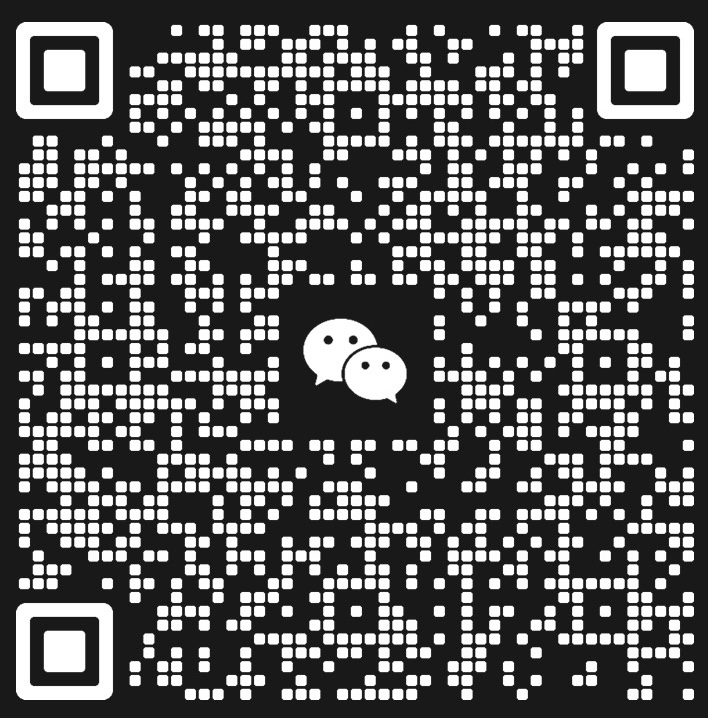
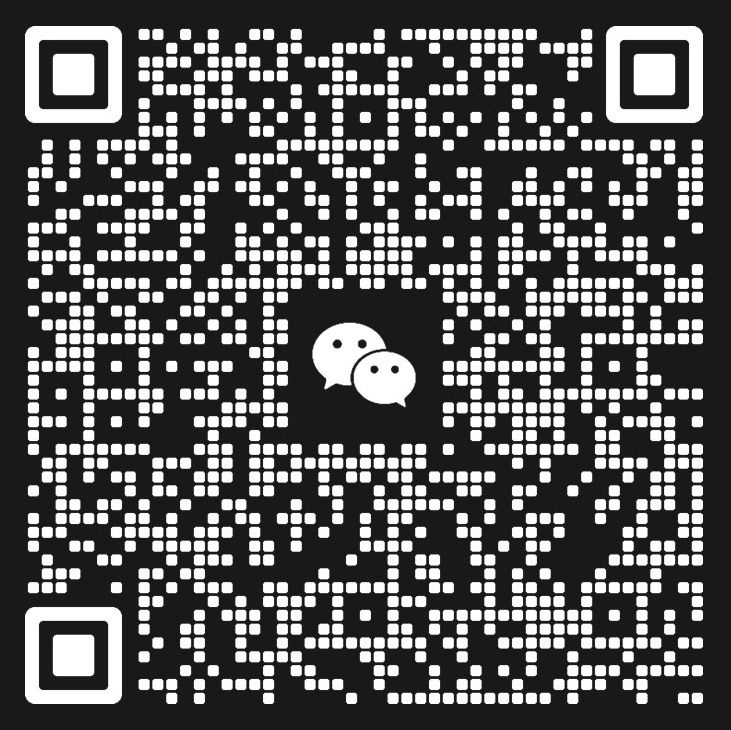
增加中英文快捷切换按钮，修复移动端BuBu

diff --git a/components/focus-lab/FocusLabApp.tsx b/components/focus-lab/FocusLabApp.tsx
@@ -3,6 +3,7 @@
 import { createClient } from '@/lib/supabase'
 import { cn } from '@/lib/utils'
 import { createPortal } from 'react-dom'
+import { usePathname, useRouter } from 'next/navigation'
 
 import Image from 'next/image'
 import { motion, AnimatePresence } from 'framer-motion'
@@ -77,6 +78,7 @@ import {
   StarIcon,
   LogoutIcon,
   HelpIcon,
+  TranslateIcon,
 } from '@/components/focus-lab/icons'
 import {
   GreetingInfo,
@@ -180,6 +182,9 @@ export const FocusLabApp = ({ onExitAction }: { onExitAction?: () => void }) => 
   const { themeColor, setThemeColor, uiStyle, setUiStyle } = useThemeColor()
   const { user } = useAuth()
   const { t, language: lang } = useTranslation()
+  const pathname = usePathname()
+  const router = useRouter()
+
   const { settings, updateSettings, isLoaded: isSettingsLoaded } = useFocusSettingsContext()
   const displayName = user
     ? user.user_metadata?.full_name ||
@@ -920,6 +925,16 @@ export const FocusLabApp = ({ onExitAction }: { onExitAction?: () => void }) => 
                     label={lang === 'zh' ? '使用引导' : 'Tour'}
                     onClick={startTour}
                   />
+                  <FocusSidebarAction
+                    id="sidebar-language"
+                    icon={<TranslateIcon className="h-6 w-6" />}
+                    label={lang === 'zh' ? 'English' : '切换中文'}
+                    onClick={() => {
+                      const newLang = lang === 'en' ? 'zh' : 'en'
+                      const newPath = pathname.replace(`/${lang}`, `/${newLang}`)
+                      router.push(newPath)
+                    }}
+                  />
                   {lang === 'zh' && (
                     <FocusSidebarAction
                       icon={<span className="icon-[solar--chat-round-dots-bold-duotone] h-6 w-6" />}
@@ -1019,12 +1034,26 @@ export const FocusLabApp = ({ onExitAction }: { onExitAction?: () => void }) => 
                   )}
                 >
                   <span className="text-lg font-bold dark:text-white">Focus Lab</span>
-                  <button
-                    onClick={onExitAction}
-                    className="rounded-lg bg-gray-100 px-3 py-1.5 text-xs font-medium text-gray-600"
-                  >
-                    Exit
-                  </button>
+                  <div className="flex items-center gap-2">
+                    <button
+                      onClick={() => {
+                        const newLang = lang === 'en' ? 'zh' : 'en'
+                        // Replace the first occurrence of the current lang in the path
+                        // This assumes the path starts with /en or /zh
+                        const newPath = pathname.replace(`/${lang}`, `/${newLang}`)
+                        router.push(newPath)
+                      }}
+                      className="rounded-lg bg-gray-100 px-3 py-1.5 text-xs font-medium text-gray-600 transition-colors hover:bg-gray-200 dark:bg-gray-800 dark:text-gray-300 dark:hover:bg-gray-700"
+                    >
+                      {lang === 'en' ? '中文' : 'En'}
+                    </button>
+                    <button
+                      onClick={onExitAction}
+                      className="rounded-lg bg-gray-100 px-3 py-1.5 text-xs font-medium text-gray-600 transition-colors hover:bg-gray-200 dark:bg-gray-800 dark:text-gray-300 dark:hover:bg-gray-700"
+                    >
+                      {lang === 'zh' ? '退出' : 'Exit'}
+                    </button>
+                  </div>
                 </div>
               )}
 

diff --git a/components/focus-lab/modals/FocusLabSettingsModal.tsx b/components/focus-lab/modals/FocusLabSettingsModal.tsx
@@ -4,6 +4,7 @@ import { useState, useRef, useEffect } from 'react'
 import { motion, AnimatePresence } from 'framer-motion'
 import { cn } from '@/lib/utils'
 import { useTranslation } from '@/context/LanguageContext'
+import { usePathname, useRouter } from 'next/navigation'
 import { useTheme } from 'next-themes'
 import { useThemeColor, ThemeColor, UIStyle } from '@/context/ThemeColorContext'
 import { GRID_PRESETS } from '@/components/focus-lab/constants'
@@ -44,6 +45,8 @@ export const FocusLabSettingsModal = ({
   onResetLayout,
 }: FocusLabSettingsModalProps) => {
   const { t, language: lang } = useTranslation()
+  const pathname = usePathname()
+  const router = useRouter()
   const { theme, setTheme } = useTheme()
   const { themeColor, setThemeColor, uiStyle, setUiStyle } = useThemeColor()
 
@@ -110,6 +113,24 @@ export const FocusLabSettingsModal = ({
               </h2>
 
               <div className="space-y-4">
+                {/* Language Switcher */}
+                <div className="flex items-center justify-between rounded-lg bg-gray-50 p-3 dark:bg-gray-800">
+                  <span className="font-medium dark:text-gray-200">
+                    {lang === 'zh' ? 'Language' : '语言'}
+                  </span>
+                  <button
+                    onClick={() => {
+                      const newLang = lang === 'en' ? 'zh' : 'en'
+                      // Replace the first occurrence of the current lang in the path
+                      const newPath = pathname.replace(`/${lang}`, `/${newLang}`)
+                      router.push(newPath)
+                    }}
+                    className={`rounded-md px-3 py-1.5 text-sm transition-colors ${getToggleButtonClass(false).replace('bg-gray-200 text-gray-500 dark:bg-gray-700 dark:text-gray-400', 'bg-gray-200 text-gray-700 dark:bg-gray-700 dark:text-gray-300')}`}
+                  >
+                    {lang === 'zh' ? '中文' : 'English'}
+                  </button>
+                </div>
+
                 {/* Dark Mode */}
                 <div
                   className={`flex items-center justify-between rounded-lg bg-gray-50 p-3 dark:bg-gray-800 ${isLightModeOnlyStyle ? 'opacity-50' : ''}`}

diff --git a/components/focus-lab/icons.tsx b/components/focus-lab/icons.tsx
@@ -88,6 +88,26 @@ export const HelpIcon = ({ className }: { className?: string }) => (
   <span className={`icon-[solar--question-circle-bold-duotone] ${className}`} />
 )
 
+export const TranslateIcon = ({ className }: { className?: string }) => (
+  <svg
+    xmlns="http://www.w3.org/2000/svg"
+    viewBox="0 0 24 24"
+    fill="none"
+    stroke="currentColor"
+    strokeWidth="2"
+    strokeLinecap="round"
+    strokeLinejoin="round"
+    className={className}
+  >
+    <path d="m5 8 6 6" />
+    <path d="m4 14 6-6 2-3" />
+    <path d="M2 5h12" />
+    <path d="M7 2h1" />
+    <path d="m22 22-5-10-5 10" />
+    <path d="M14 18h6" />
+  </svg>
+)
+
 export const TicketIcon = ({ className }: { className?: string }) => (
   <span className={`icon-[solar--ticket-star-bold-duotone] ${className}`} />
 )

diff --git a/components/focus-lab/modals/WeChatGroupModal.tsx b/components/focus-lab/modals/WeChatGroupModal.tsx
@@ -36,7 +36,7 @@ export const WeChatGroupModal = ({ isOpen, onClose }: { isOpen: boolean; onClose
                 <div className="overflow-hidden rounded-xl border border-gray-100 dark:border-gray-700">
                   {/* eslint-disable-next-line @next/next/no-img-element */}
                   <img
-                    src="/static/images/focuslab/qr/latest.jpg"
+                    src="/static/images/focuslab/qr/latest.jpg?v=2"
                     alt="WeChat Group QR"
                     className="h-64 w-64 object-cover"
                   />
